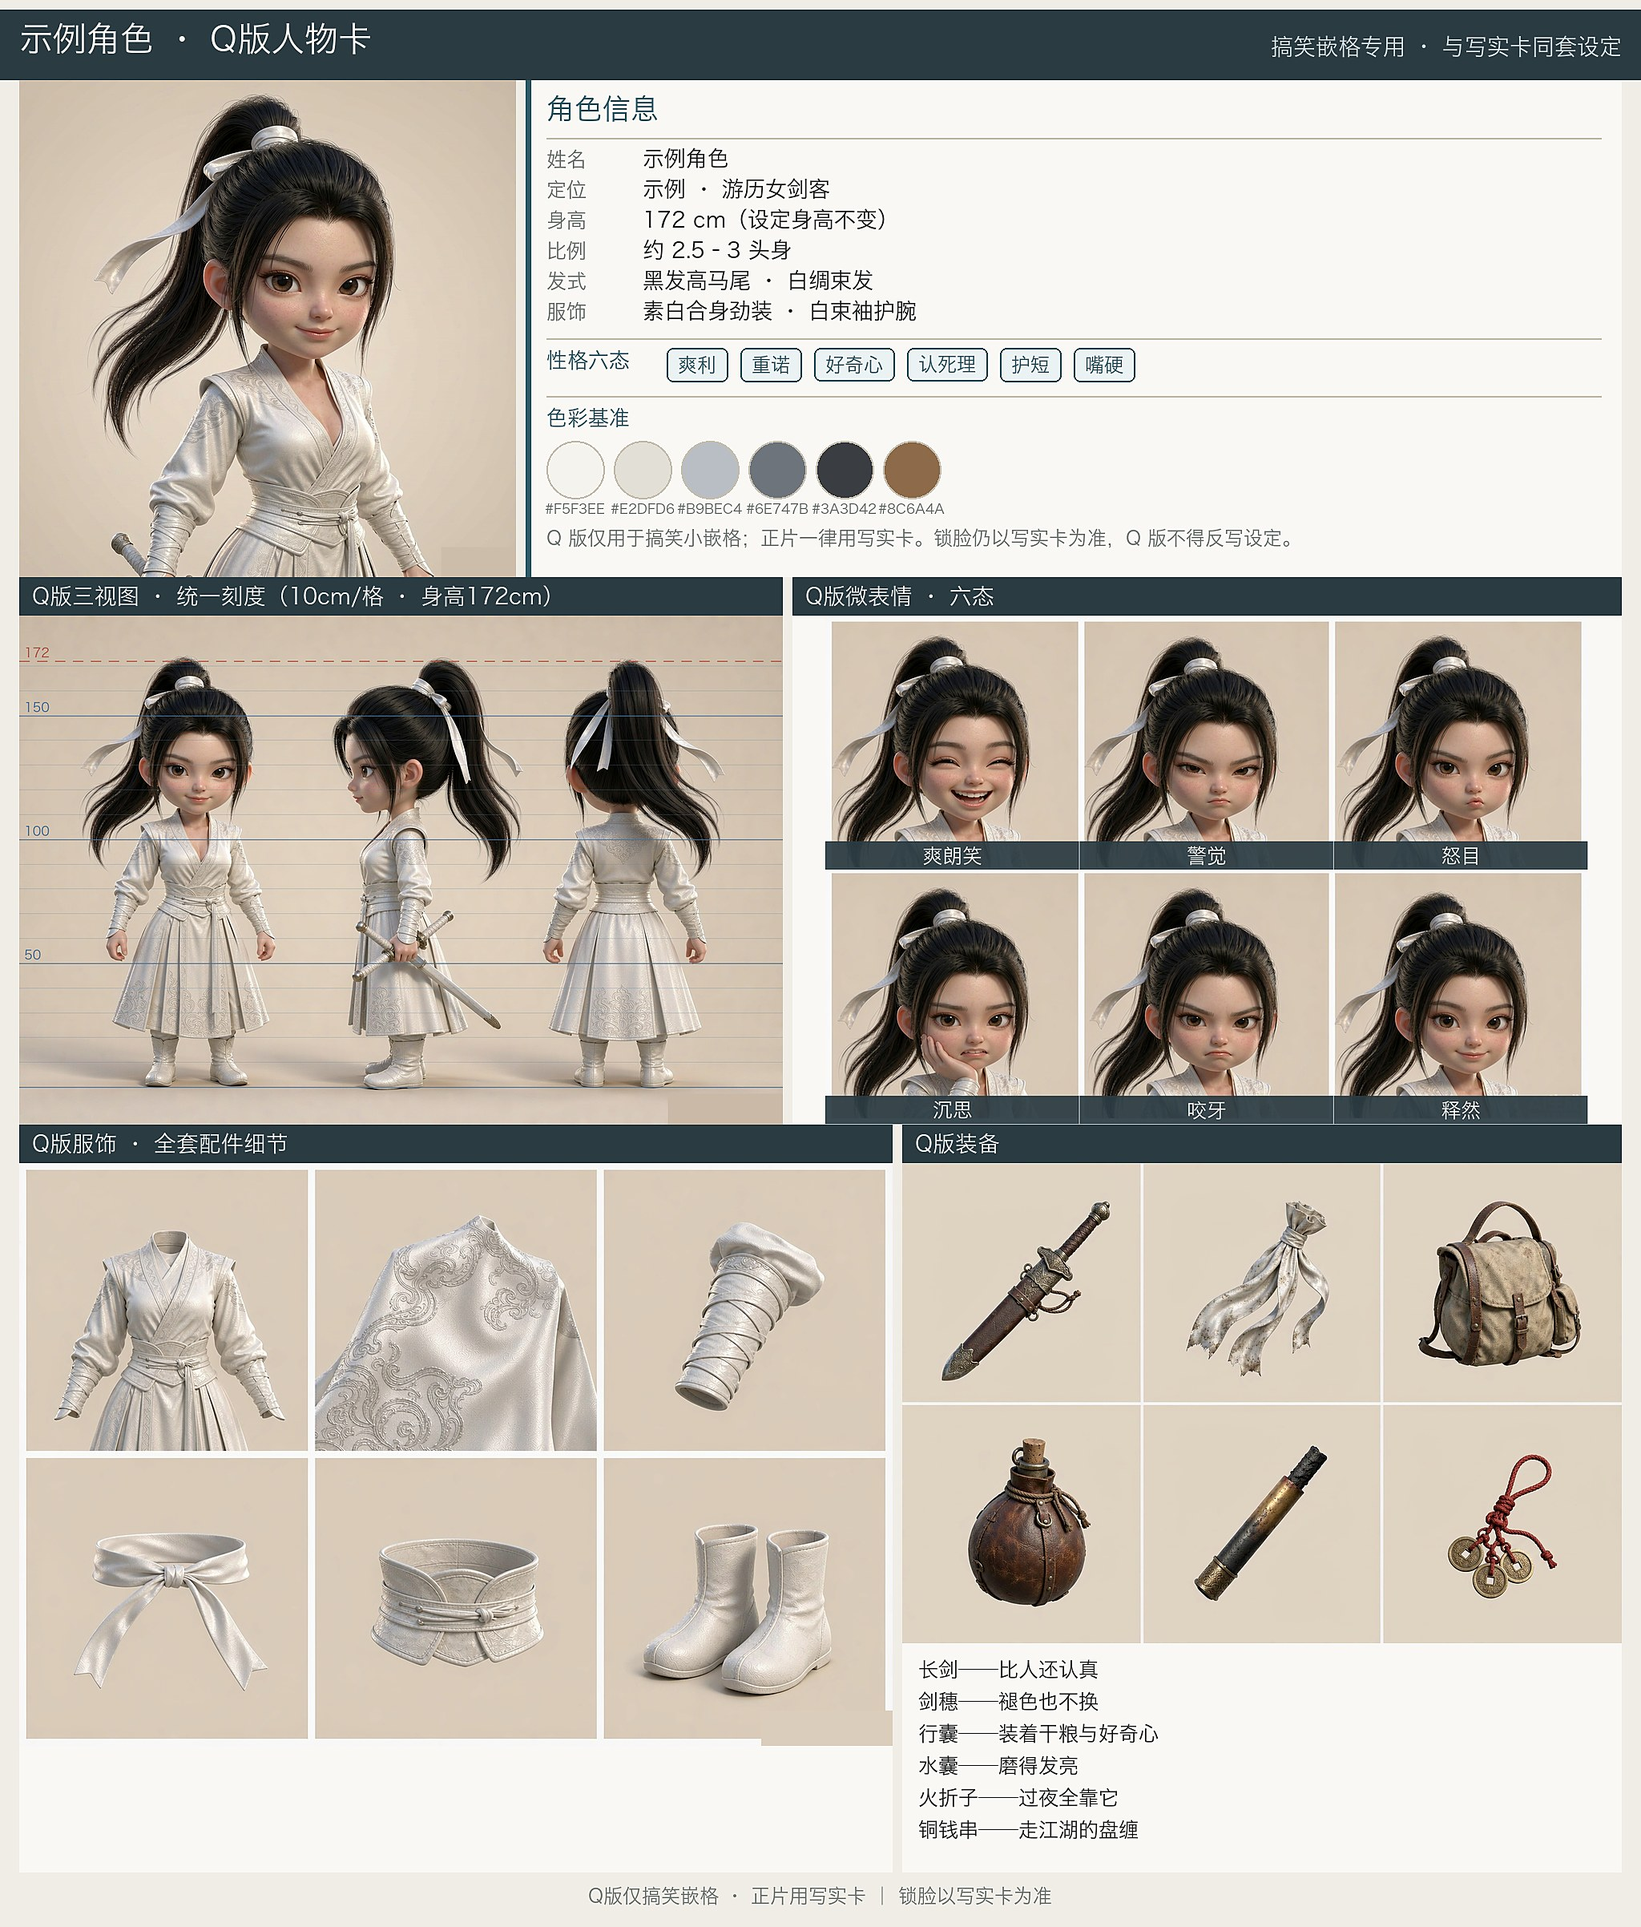
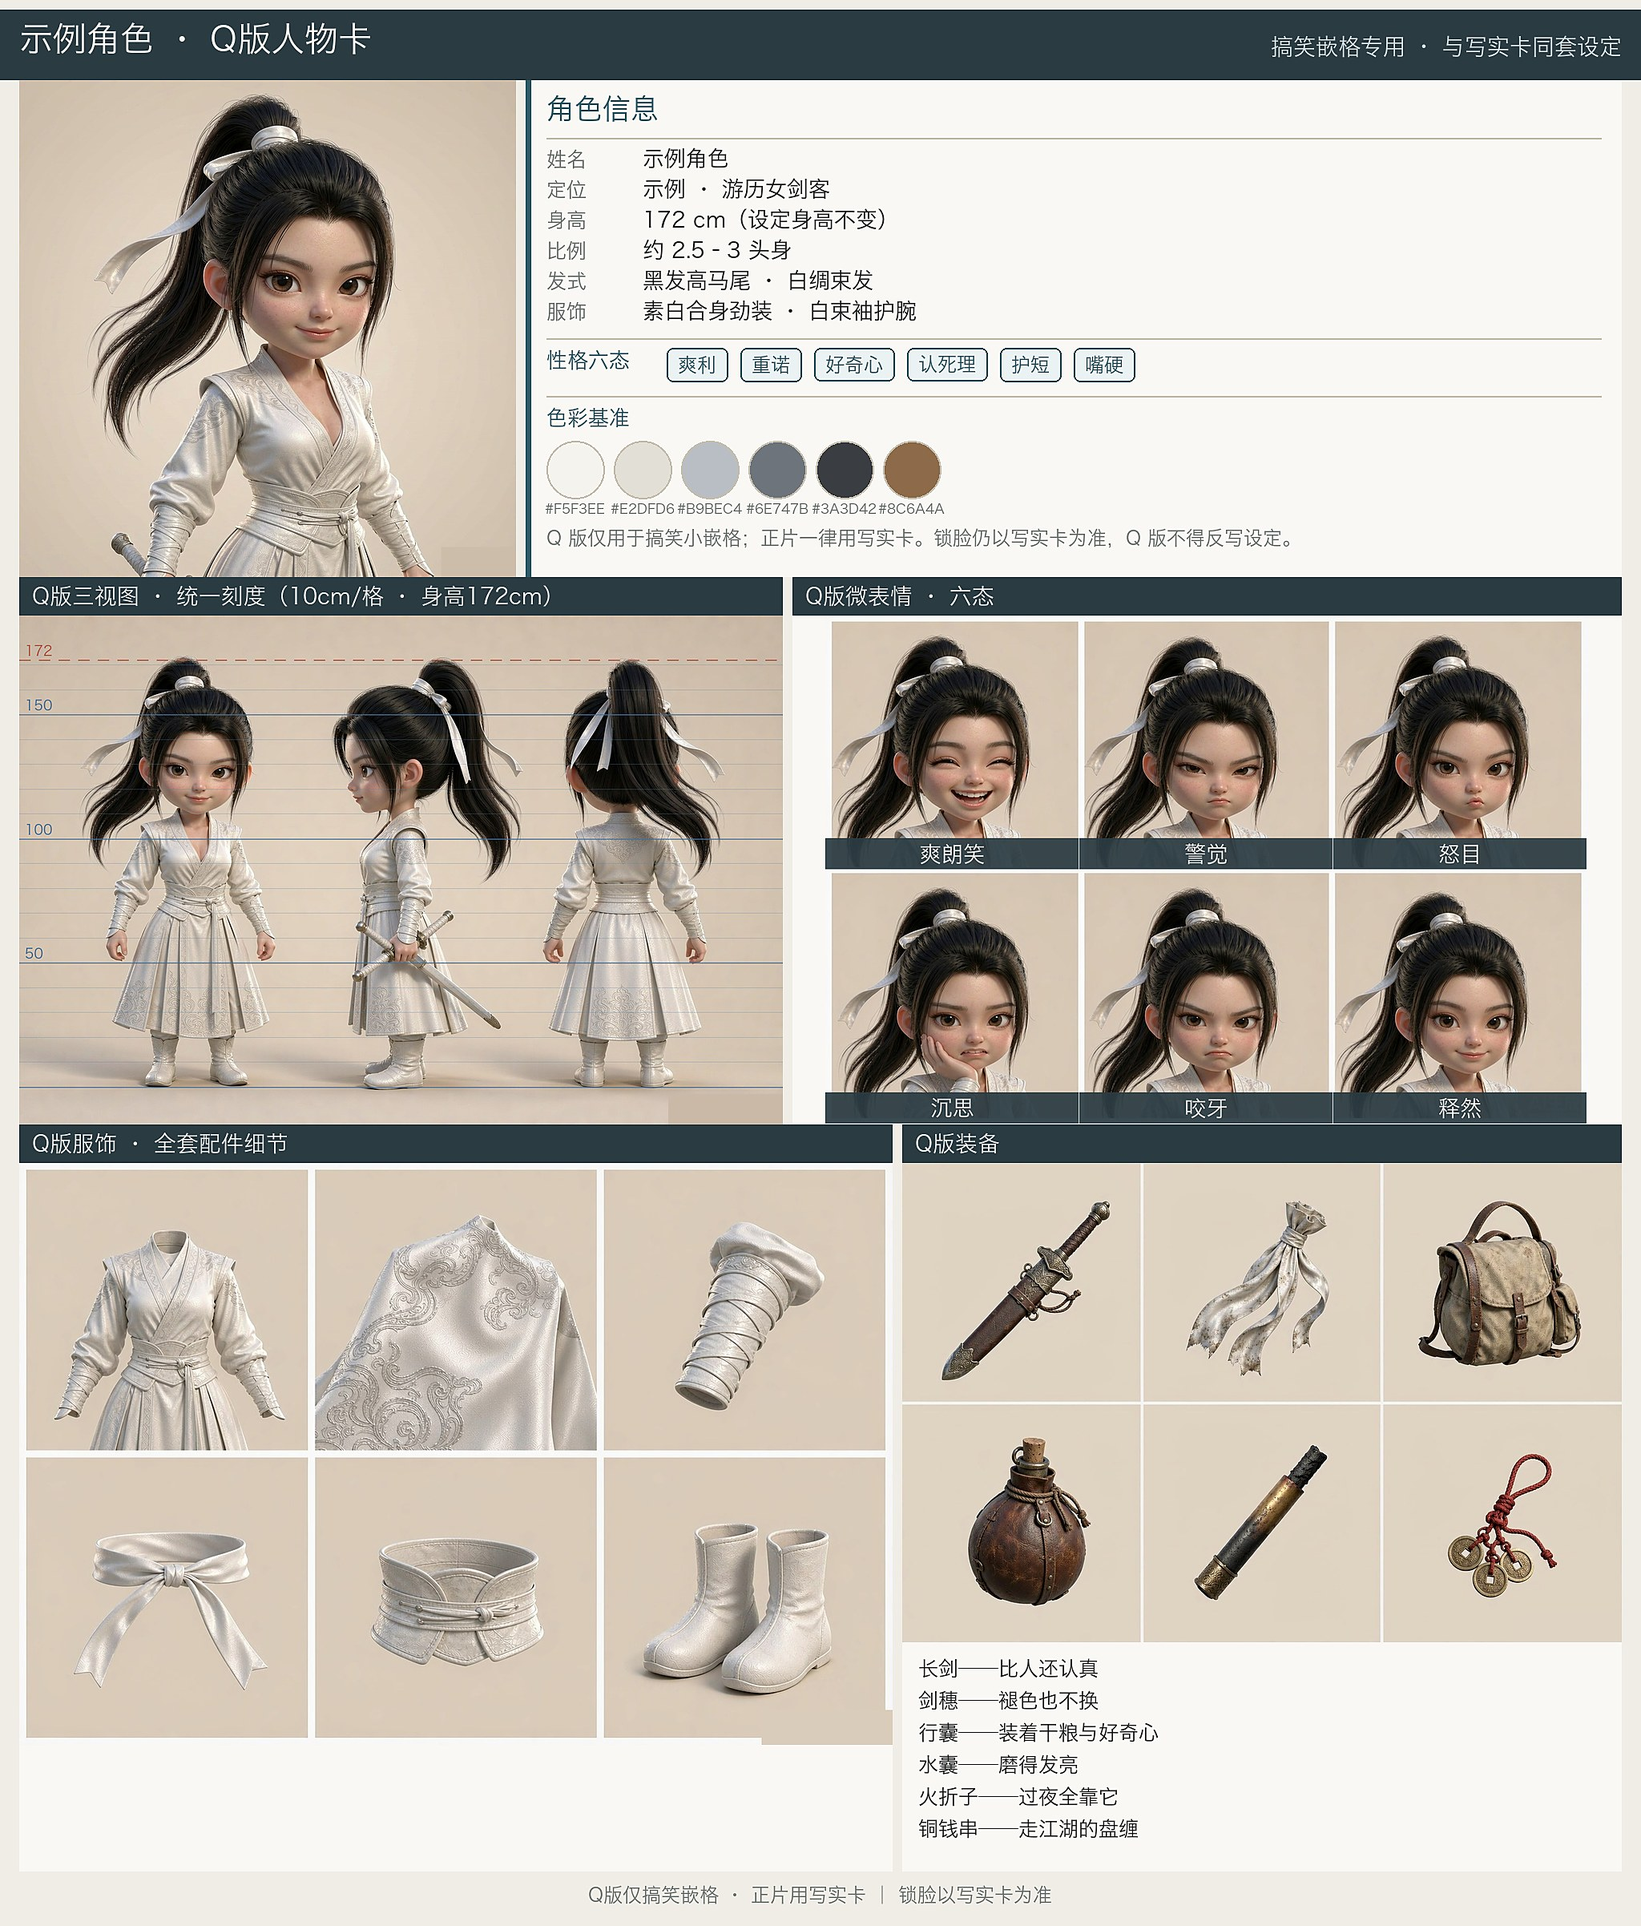
Add second example: 清衡 (from author's work), shipped part assets for one-command repro
- examples/: 10 part source images each for 示例角色 and 清衡
  (compressed to ~1400px JPG, ~5MB total)
- characters.example.py now defines both characters incl. watermark
  patching presets (turn_wm=stretch, bust_wm=copy)
- fresh clones can reproduce all four example cards without any
  image generation: cp characters.example.py characters.py && run
- README: two-example showcase

diff --git a/characters.example.py b/characters.example.py
@@ -1,11 +1,11 @@
 #!/usr/bin/env python3
-"""角色配置示例（复制为 characters.py 后修改）。
+"""角色配置示例（两个完整示例：原创示例角色 + 清衡）。
 
-使用方法：
+快速复现（克隆仓库后直接跑，examples/ 里已带 10 张分件）：
   cp characters.example.py characters.py
-  # 修改 BASE_DIR 与 CHARS / Q_CHARS 里的内容，指向你的分件源图目录
-  python compose_full_card.py 示例角色
-  python compose_q_card.py   示例角色
+  python compose_full_card.py        # 组装全部写实卡
+  python compose_q_card.py          # 组装全部 Q 版卡
+  # 或指定角色： python compose_full_card.py 清衡
 
 路径规则：
   - BASE_DIR：分件源图与成品卡的根目录（默认 = 本文件所在目录）
@@ -13,11 +13,11 @@
   - prefix：可选，中间产物文件名前缀（默认用角色名）
 
 分件源图清单（写实 5 张 + Q 版 5 张，提示词模板见 README / SKILL.md）：
-  <角色>_主肖像_源图.png        竖版 1024×1024 左右
-  <角色>_三视图_源图.png        横版 1536×1024（正面/侧面/背面并排）
-  <角色>_微表情_源图.png        横版 1536×1024（六格 3×2，禁文字）
-  <角色>_服饰图鉴_源图.png      横版 1536×1024（六格 3×2，禁文字）
-  <角色>_装备图鉴_源图.png      横版 1536×1024（六格 3×2，禁文字）
+  <角色>_主肖像_源图.jpg/png     竖版 1024×1024 左右
+  <角色>_三视图_源图.jpg/png     横版 1536×1024（正面/侧面/背面并排）
+  <角色>_微表情_源图.jpg/png     横版 1536×1024（六格 3×2，禁文字）
+  <角色>_服饰图鉴_源图.jpg/png   横版 1536×1024（六格 3×2，禁文字）
+  <角色>_装备图鉴_源图.jpg/png   横版 1536×1024（六格 3×2，禁文字）
   Q 版同名五张：把上面前缀换成 <角色>_Q版…
 
 注意：服饰/装备六格不叠印逐格名牌（AI 生成的网格无法像素对齐，名牌必错位，
@@ -29,14 +29,17 @@ from pathlib import Path
 BASE_DIR = Path(__file__).resolve().parent
 
 CHARS = {
+    # ------------------------------------------------------------------
+    # 示例 A：原创示例角色（white-clad swordswoman，photoreal cinematic 3D）
+    # ------------------------------------------------------------------
     "示例角色": {
-        "parts": "assets/示例角色_分件",
-        "out": "assets/示例角色/示例角色_完整人物卡.png",
-        "bust": "示例角色_主肖像_源图.png",
-        "turn": "示例角色_三视图_源图.png",
-        "expr": "示例角色_微表情_源图.png",
-        "acc": "示例角色_服饰图鉴_源图.png",
-        "eq": "示例角色_装备图鉴_源图.png",
+        "parts": "examples/示例角色_分件",
+        "out": "examples/out/示例角色_完整人物卡.png",
+        "bust": "示例角色_主肖像_源图.jpg",
+        "turn": "示例角色_三视图_源图.jpg",
+        "expr": "示例角色_微表情_源图.jpg",
+        "acc": "示例角色_服饰图鉴_源图.jpg",
+        "eq": "示例角色_装备图鉴_源图.jpg",
         "title": "示例角色 · 人物设定卡（完整版）",
         "subtitle": "示例装束 · 素白合身劲装 / 银线暗纹 / 白绸束发",
         "info_pairs": [
@@ -88,17 +91,88 @@ CHARS = {
         "eq_label": "随身装备 · 走江湖的家伙",
         "foot": "示例卡片 · 造型口径见你的设定文档 ｜ 统一刻度 + 配件细节大图",
     },
+    # ------------------------------------------------------------------
+    # 示例 B：清衡（出自作者作品《凡人修仙外传》，photoreal cinematic 3D）
+    #   演示要点：三视图与主肖像水印压在人物/渐变色上时的修补口径
+    #   （turn_wm / turn_patch_span / bust_wm）
+    # ------------------------------------------------------------------
+    "清衡": {
+        "parts": "examples/清衡_分件",
+        "out": "examples/out/清衡_完整人物卡.png",
+        "bust": "清衡_主肖像_源图.jpg",
+        "turn": "清衡_三视图_源图.jpg",
+        "expr": "清衡_微表情_源图.jpg",
+        "acc": "清衡_服饰图鉴_源图.jpg",
+        "eq": "清衡_装备图鉴_源图.jpg",
+        "title": "清衡 · 凡人修仙外传 人物设定卡（完整版）",
+        "subtitle": "示例装束 · 露肩蓝缎 / 银蓝绣纹 / 蓝纱披帛 / 蓝银步摇",
+        "info_pairs": [
+            ("姓名", "清衡"),
+            ("定位", "讨债小队 · 账房/符阵"),
+            ("出身", "衡山书阁 · 清家闺秀"),
+            ("阶段", "外传 · 以账换自由"),
+            ("身高/体重", "175 cm / 52 kg"),
+            ("体型", "高挑纤腰 · 仪态端正"),
+            ("发式", "蓝黑长发 · 蓝银步摇"),
+            ("瞳发", "蓝瞳乌发 · 流苏耳坠"),
+        ],
+        "info_full": [
+            ("口头禅", "「所有人在账上，都是。」"),
+            ("硬性", "古风绣花鞋平底露踝 · 禁高跟鞋 · 禁眼镜 · 禁眉心印"),
+        ],
+        "traits": ["冷静", "精算", "贵气", "毒舌", "护队", "外冷内软"],
+        "ability": "锁喉符 · 定神符 · 符阵布设 · 弹符钉 · 账房精算 · 情报采买",
+        "background": (
+            "衡山书阁清家闺秀，账房天才。家族拿她联姻换靠山，她把合同拍在桌上反谈："
+            "替清债司清完三年烂账，换联姻作废、旧仆获释，与清家两清。入队任账房兼符阵，"
+            "账本从不离身——「所有人在账上，都是。」袖里藏符，指间符钉，"
+            "一笔记到总账清算那天。"
+        ),
+        "world": (
+            "讨债小队的账都在她手上：战损、缴获、人情、仇怨，一笔一笔记。"
+            "队名终改「救死扶伤队」，暗号「回苏生堂」——重聚坐标她早就写好了："
+            "活着。强制。"
+        ),
+        "palette": [
+            ("#1B2A4A", (27, 42, 74)),
+            ("#2F4F7A", (47, 79, 122)),
+            ("#6B8CBC", (107, 140, 188)),
+            ("#ABC4E0", (171, 196, 224)),
+            ("#C9B8A0", (201, 184, 160)),
+            ("#E8E4DC", (232, 228, 220)),
+        ],
+        "acc_names": ["露肩蓝缎裙", "银蓝绣纹", "蓝纱披帛", "蓝银步摇", "流苏耳坠", "高衩绣花鞋"],
+        "eq_names": ["账本", "符笔", "锁喉符", "符钉", "碎灵石", "作废婚书"],
+        "eq_notes": [
+            "账本——从不离身，睡时当枕；警告条夹在最里层",
+            "符笔——笔尖美，写账也写符",
+            "锁喉符——袖中藏符；偏三寸那枚，收进袖里自己记了账",
+            "符钉——弹钉退敌，像约定「账不散」",
+            "碎灵石——买情报的硬通货，半块灵石换一条线索",
+            "作废婚书——拍在族长桌上的那张，换回自由身",
+        ],
+        "expr_names": ["冷静", "算计", "审视", "专注", "优雅", "魅惑"],
+        "expr_grid": (3, 2),
+        "cm_height": 175,
+        "turn_front_x": (60, 480),          # 正面视图所在 x 区间（脚线检测用）
+        "turn_wm": "stretch",               # 地面有阴影渐变 → 拉伸贴盖
+        "turn_patch_span": (0.30, 0.39),    # 取人物间地面空隙拉伸
+        "bust_wm": "copy",                  # 主肖像水印压在人物上 → 左侧复制贴盖
+        "acc_label": "全套服饰与配件细节",
+        "eq_label": "随身装备 · 账房符阵的家伙",
+        "foot": "示例卡片 · 造型与信物口径以设定文档为准 ｜ 统一刻度 + 配件细节大图",
+    },
 }
 
 Q_CHARS = {
     "示例角色": {
-        "parts": "assets/示例角色_分件",
-        "out": "assets/示例角色/示例角色_Q版人物卡.png",
-        "bust": "示例角色_Q版主肖像_源图.png",
-        "turn": "示例角色_Q版三视图_源图.png",
-        "expr": "示例角色_Q版微表情_源图.png",
-        "acc": "示例角色_Q版服饰图鉴_源图.png",
-        "eq": "示例角色_Q版装备图鉴_源图.png",
+        "parts": "examples/示例角色_分件",
+        "out": "examples/out/示例角色_Q版人物卡.png",
+        "bust": "示例角色_Q版主肖像_源图.jpg",
+        "turn": "示例角色_Q版三视图_源图.jpg",
+        "expr": "示例角色_Q版微表情_源图.jpg",
+        "acc": "示例角色_Q版服饰图鉴_源图.jpg",
+        "eq": "示例角色_Q版装备图鉴_源图.jpg",
         "title": "示例角色 · Q版人物卡",
         "subtitle": "搞笑嵌格专用 · 与写实卡同套设定",
         "turn_front_x": (80, 340),  # 三视图里正面视图所在的 x 像素区间
@@ -132,5 +206,49 @@ Q_CHARS = {
         "cm_height": 172,
         "usage_note": "Q 版仅用于搞笑小嵌格；正片一律用写实卡。锁脸仍以写实卡为准，Q 版不得反写设定。",
         "foot": "Q版仅搞笑嵌格 · 正片用写实卡 ｜ 锁脸以写实卡为准",
+    },
+    "清衡": {
+        "parts": "examples/清衡_分件",
+        "out": "examples/out/清衡_Q版人物卡.png",
+        "bust": "清衡_Q版主肖像_源图.jpg",
+        "turn": "清衡_Q版三视图_源图.jpg",
+        "expr": "清衡_Q版微表情_源图.jpg",
+        "acc": "清衡_Q版服饰图鉴_源图.jpg",
+        "eq": "清衡_Q版装备图鉴_源图.jpg",
+        "title": "清衡 · Q版人物卡",
+        "subtitle": "搞笑嵌格专用 · 与写实卡同套设定",
+        "turn_front_x": (80, 480),
+        "info_pairs": [
+            ("姓名", "清衡"),
+            ("定位", "讨债小队 · 账房/符阵"),
+            ("身高", "175 cm（设定身高不变）"),
+            ("比例", "约 2.5–3 头身"),
+            ("发式", "蓝黑长发 · 蓝银步摇"),
+            ("服饰", "露肩蓝缎 · 蓝纱披帛 · 平底绣花鞋"),
+        ],
+        "traits": ["冷静", "精算", "贵气", "毒舌", "护队", "外冷内软"],
+        "palette": [
+            ("#1B2A4A", (27, 42, 74)),
+            ("#2F4F7A", (47, 79, 122)),
+            ("#6B8CBC", (107, 140, 188)),
+            ("#ABC4E0", (171, 196, 224)),
+            ("#C9B8A0", (201, 184, 160)),
+            ("#E8E4DC", (232, 228, 220)),
+        ],
+        "acc_names": ["露肩蓝缎裙", "银蓝绣纹", "蓝纱披帛", "蓝银步摇", "流苏耳坠", "平底绣花鞋"],
+        "eq_names": ["账本", "符笔", "锁喉符", "符钉", "碎灵石", "作废婚书"],
+        "eq_notes": [
+            "账本——从不离身，睡时当枕",
+            "符笔——写账也写符",
+            "锁喉符——袖中藏符",
+            "符钉——弹钉退敌",
+            "碎灵石——买情报的硬通货",
+            "作废婚书——换回自由身那张",
+        ],
+        "expr_names": ["冷静", "算计", "审视", "专注", "优雅", "魅惑"],
+        "cm_height": 175,
+        "eq_label": "Q版装备 · 账房符阵的家伙",
+        "usage_note": "Q 版仅用于搞笑小嵌格；正片一律用写实卡。锁脸仍以写实卡为准，Q 版不得反写设定。",
+        "foot": "Q版仅搞笑嵌格 · 正片用写实卡 ｜ 锁脸以写实卡为准 ｜ 禁高跟鞋/禁眼镜/禁眉心印",
     },
 }

diff --git a/README.md b/README.md
@@ -13,13 +13,24 @@
 
 ## 产出效果
 
-下面两张是**真实生成的示例卡**（示例角色「白衣女剑客」，10 张 AI 分件 + 本工具组装）：
+仓库自带**两套完整示例**（分件源图都在 `examples/` 里，克隆后即可一键复现）：
+
+**示例 A · 原创示例角色**（素白劲装女剑客，photoreal cinematic 3D）：
 
 <p align="center">
-  <img src="docs/example_card.jpg" width="620" alt="写实完整人物卡示例">
+  <img src="docs/example_card.jpg" width="560" alt="写实完整人物卡示例">
 </p>
 <p align="center">
-  <img src="docs/example_q_card.jpg" width="620" alt="Q版人物卡示例">
+  <img src="docs/example_q_card.jpg" width="560" alt="Q版人物卡示例">
+</p>
+
+**示例 B · 清衡**（出自作者作品《凡人修仙外传》，演示三视图/主肖像水印压在人物与地面渐变上时的修补口径 `turn_wm="stretch"` / `bust_wm="copy"`）：
+
+<p align="center">
+  <img src="docs/example_qingheng_card.jpg" width="560" alt="清衡写实完整人物卡">
+</p>
+<p align="center">
+  <img src="docs/example_qingheng_q_card.jpg" width="560" alt="清衡Q版人物卡">
 </p>
 
 卡片结构（2048 宽，从上到下）：
@@ -74,7 +85,7 @@ python compose_full_card.py 示例角色     # 产出写实完整卡
 python compose_q_card.py   示例角色     # 产出 Q 版卡
 ```
 
-成品 PNG 默认写到配置里的 `out` 路径；带刻度线和名牌的分件中间产物会落回分件目录，可复用。
+克隆本仓库后**无需任何生图即可复现示例**：`cp characters.example.py characters.py` 后直接跑（缺省组装配置里的全部角色，含两套示例）；成品 PNG 写到配置里的 `out` 路径，带刻度线和名牌的分件中间产物落回分件目录，可复用。
 
 ## 作为 AI 助手 Skill 安装
 
@@ -130,7 +141,9 @@ character-card-kit/
 ├── compose_full_card.py    # 写实完整卡组装
 ├── compose_q_card.py       # Q 版卡组装
 ├── check_assets.py         # 配置与资产体检
-├── characters.example.py   # 角色配置示例（复制为 characters.py 使用）
+├── characters.example.py   # 角色配置示例（两套示例角色，复制为 characters.py 使用）
+├── examples/               # 两套示例的 10 张分件源图（克隆即可复现）
+├── docs/                   # 示例成品卡（README 展示用）
 ├── SKILL.md                # AI 助手 skill（生图提示词模板 + 全流程）
 ├── requirements.txt
 └── LICENSE
